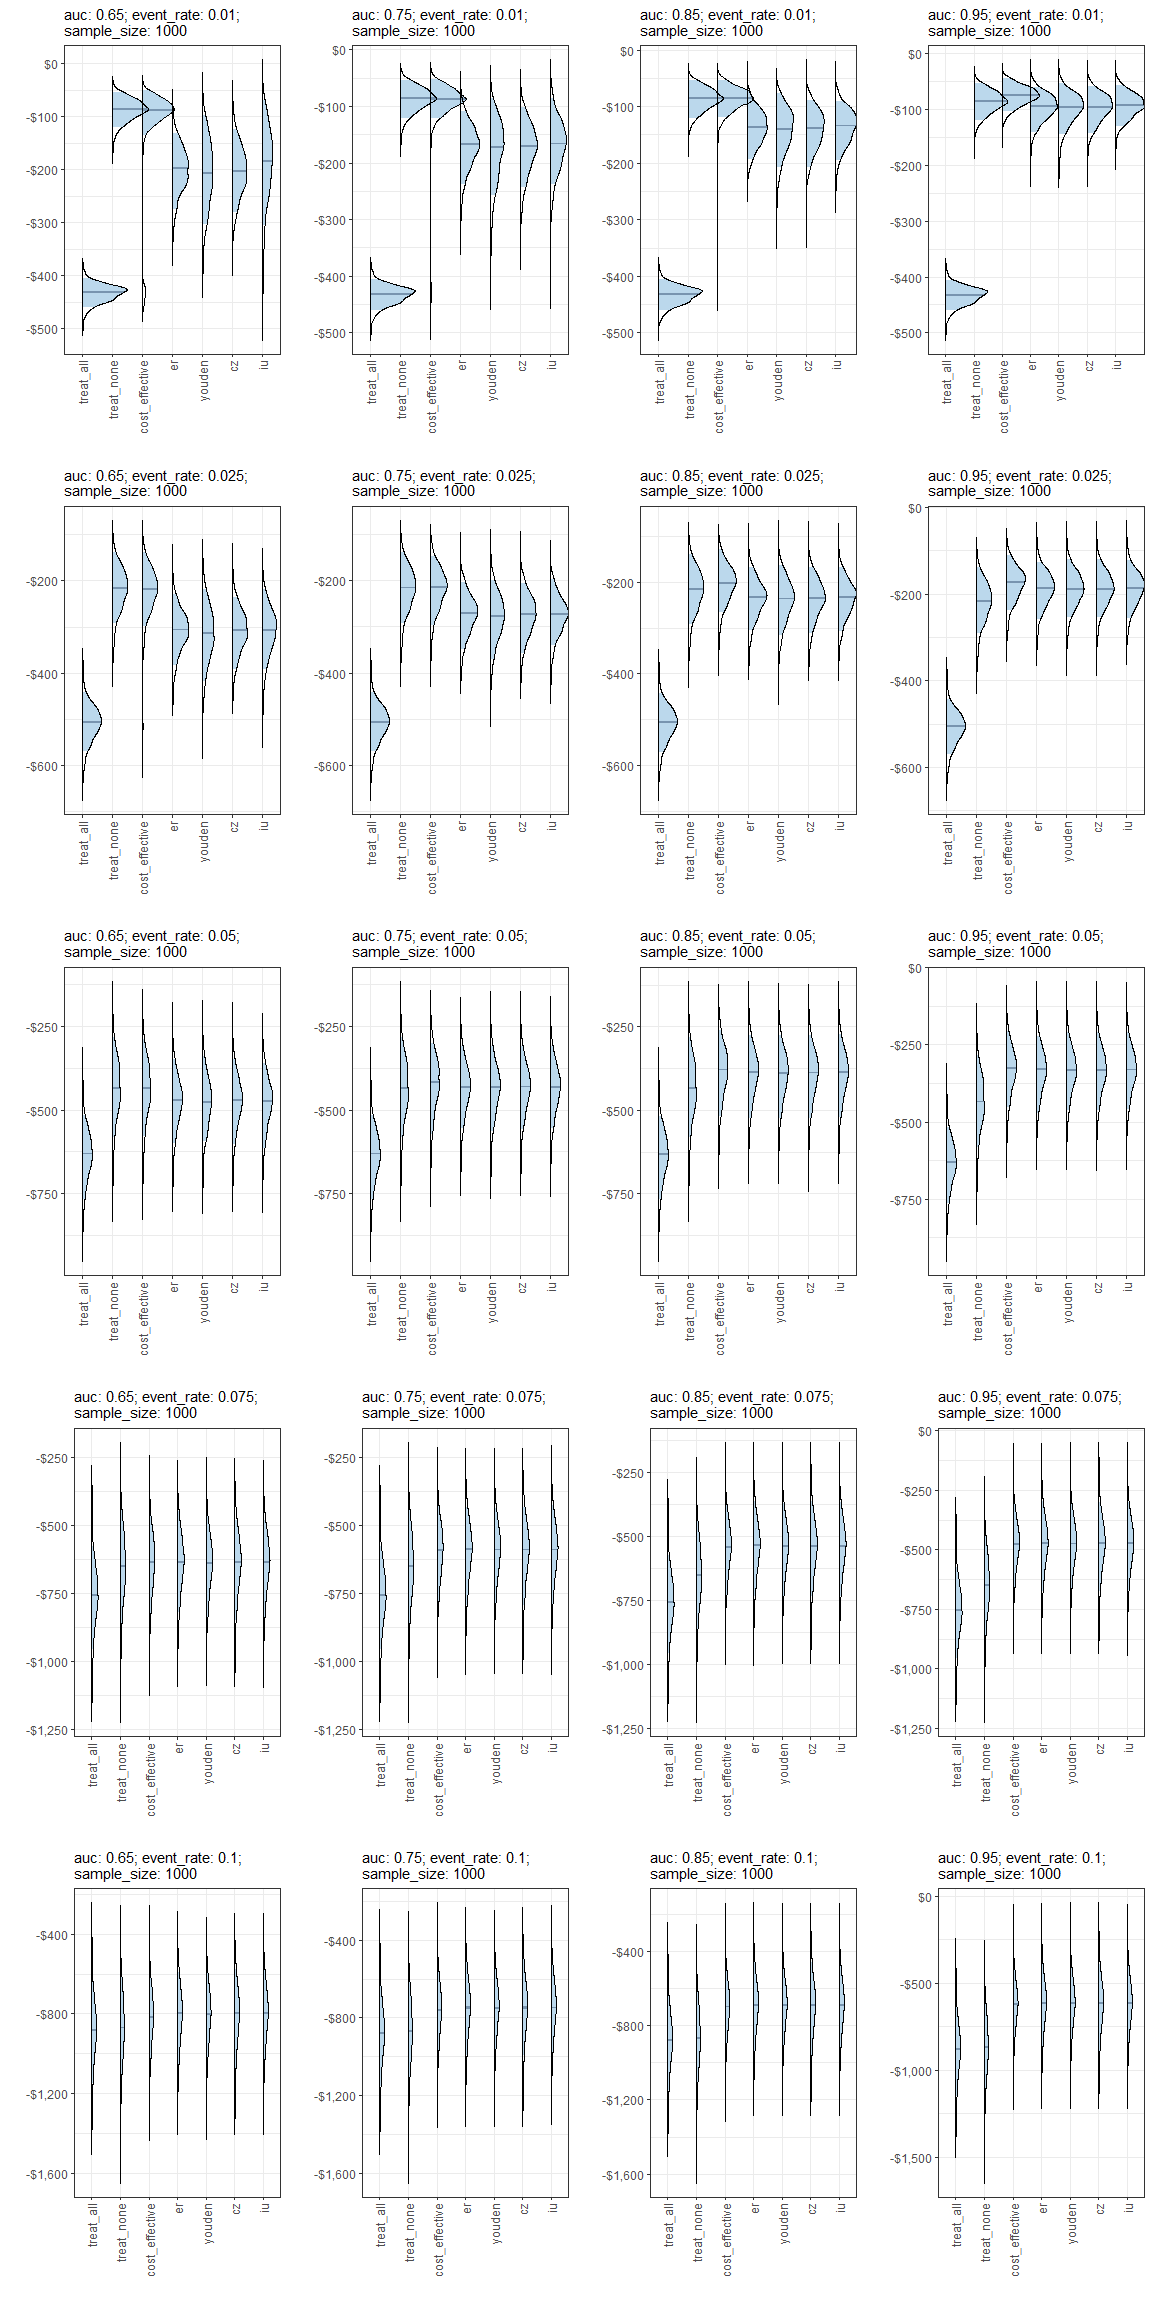
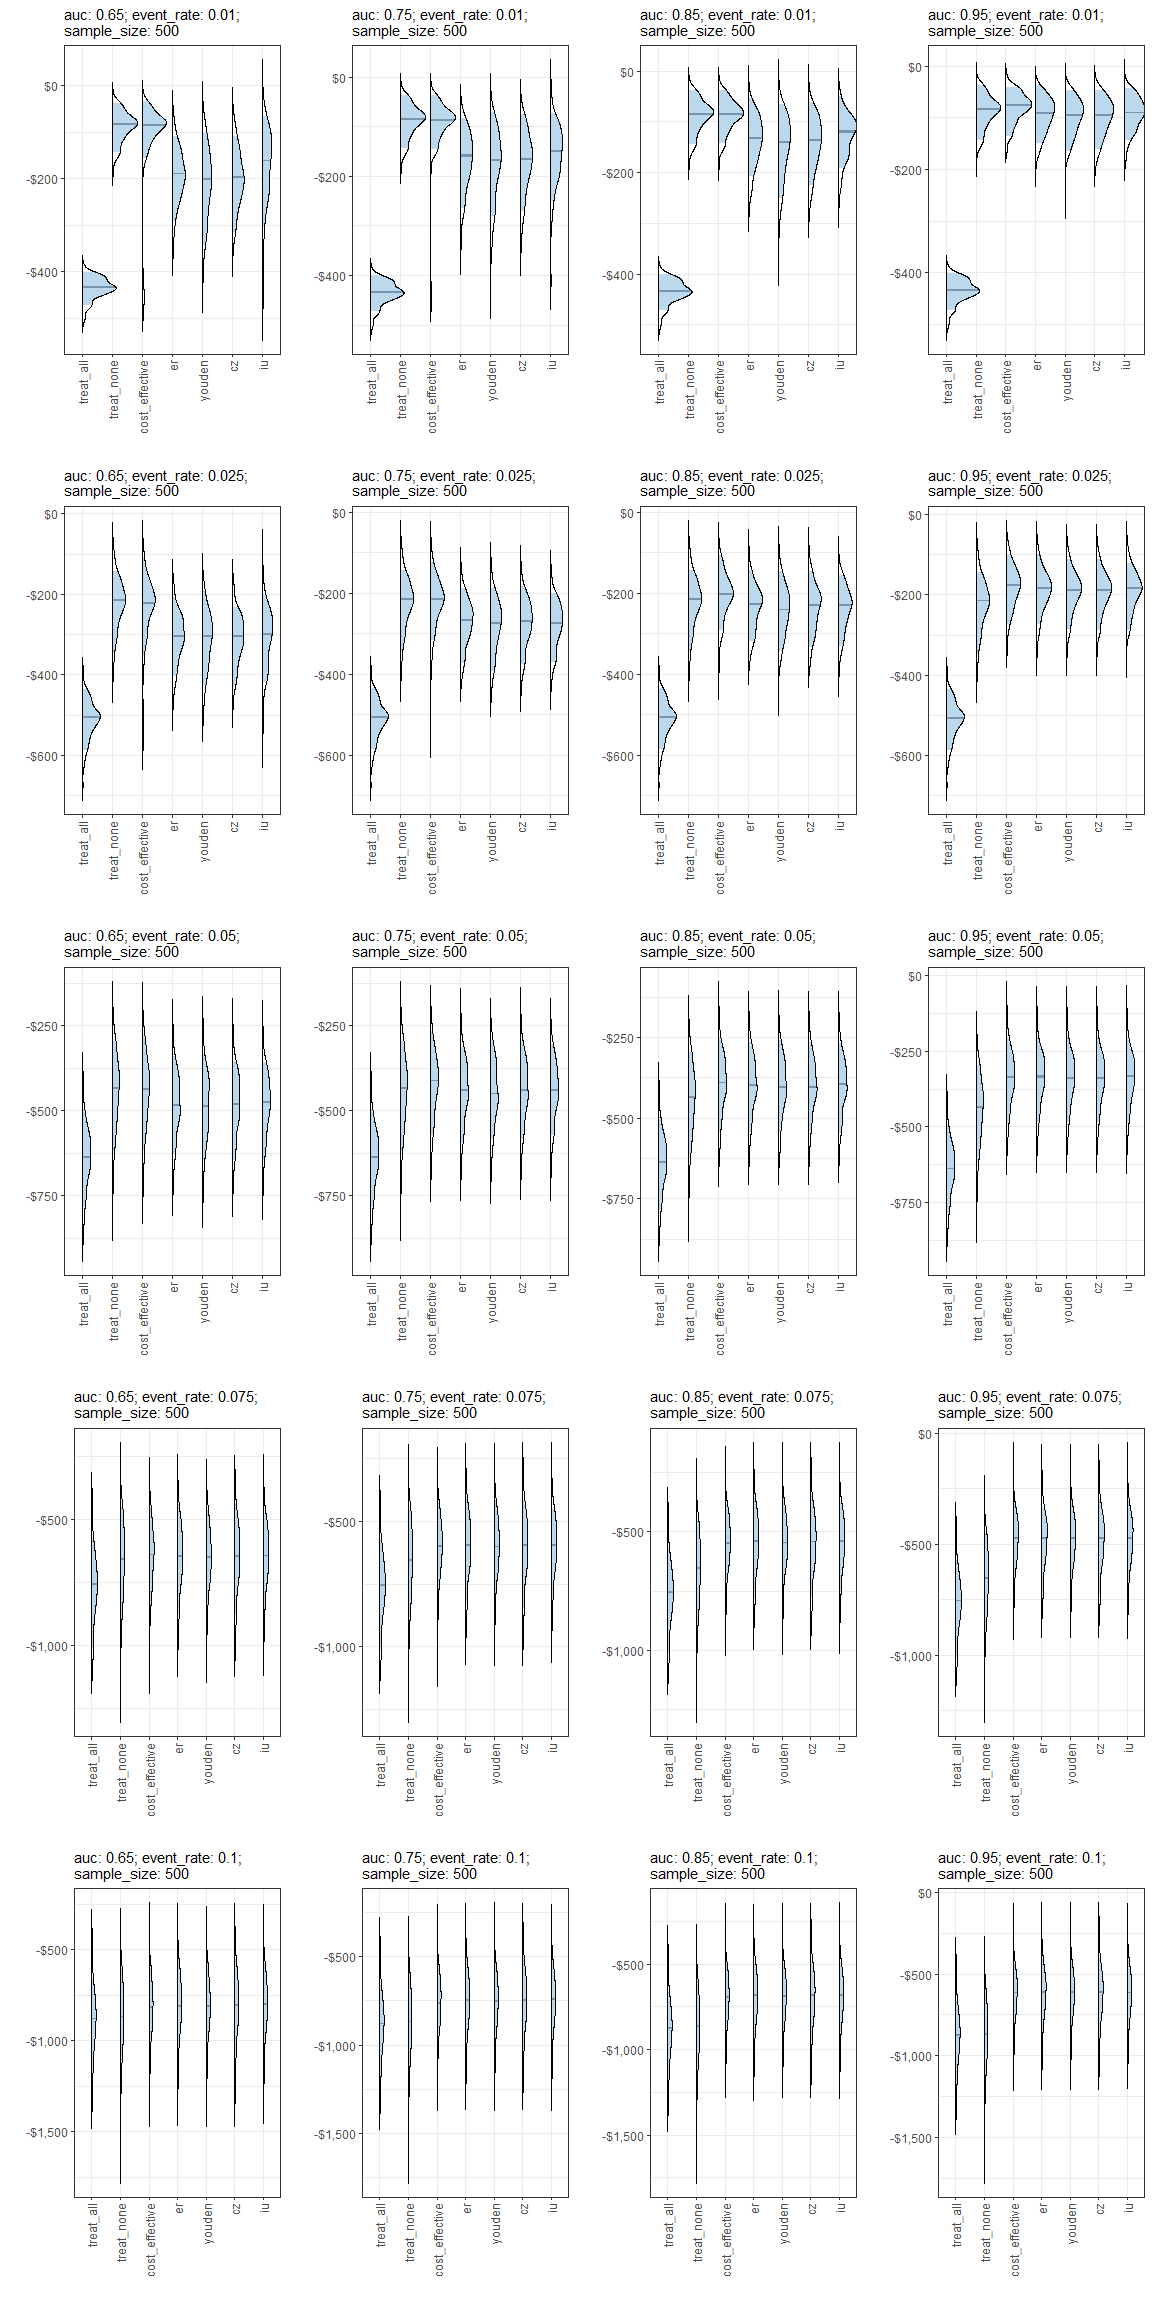
knitted with fewer sims

diff --git a/experiment_1.md b/experiment_1.md
@@ -1,6 +1,6 @@
 Experiment 1
 ================
-19 April, 2022
+20 April, 2022
 
 Question: What are the differences in NMB between models where the
 Probability threshold was based on the currently available methods
@@ -336,6 +336,11 @@ do_simulation <- function(sample_size, n_sims, n_valid, sim_auc, event_rate,
 #### I think that this is because, for models with very high discrimination, they’re able to correctly classify a larger proportion of samples, and there are fewer which are classified differently based on selection method. The difference is greater for smaller event rates because a false negative is the most costly classification, and only the cost-based method is “aware” of this. This is also why, when the event rate is very high, there is not much of a difference between methods (cost-based method is focused on correctly classifying the majority class but so are the other methods).
 
 ``` r
+simulation_config <- list(
+  training_sample_size = 500,
+  n_simulations = 200,
+  validation_sample_size = 1000
+)
 library(parallel)
 n_cluster <- detectCores()
 cl <- makeCluster(n_cluster)
@@ -347,7 +352,7 @@ g <- expand.grid(
 )
 
 clusterExport(cl, {
-  c("do_simulation", "g", "get_nmb", "get_nmb_ICU", "params")
+  c("do_simulation", "g", "get_nmb", "get_nmb_ICU", "params", "simulation_config")
 })
 
 invisible(clusterEvalQ(cl, {
@@ -365,7 +370,9 @@ ll1 <- parallel::parLapply(
   cl,
   1:nrow(g),
   function(i) do_simulation(
-    sample_size=1000, n_sims=1000, n_valid=5000,
+    sample_size=simulation_config$training_sample_size,
+    n_sims=simulation_config$n_simulations,
+    n_valid=simulation_config$validation_sample_size,
     sim_auc=g$sim_auc[i], event_rate=g$event_rate[i],
     fx_costs=get_nmb, get_what="plot", resample_values=TRUE,
     plot_type="density", scale=60
@@ -376,7 +383,9 @@ ll2 <- parallel::parLapply(
   cl,
   1:nrow(g),
   function(i) do_simulation(
-    sample_size=1000, n_sims=1000, n_valid=5000,
+    sample_size=simulation_config$training_sample_size,
+    n_sims=simulation_config$n_simulations,
+    n_valid=simulation_config$validation_sample_size,
     sim_auc=g$sim_auc[i], event_rate=g$event_rate[i],
     fx_costs=get_nmb_ICU, get_what="plot", resample_values=TRUE,
     plot_type="density", scale=400
@@ -423,7 +432,7 @@ ll3 <- parallel::parLapply(
   cl,
   1:nrow(g2),
   function(i) do_simulation(
-    sample_size=g2$train_size[i], n_sims=1000, n_valid=5000,
+    sample_size=g2$train_size[i], n_sims=500, n_valid=5000,
     sim_auc=g2$sim_auc[i], event_rate=0.025,
     fx_costs=get_nmb, get_what="plot", resample_values=TRUE,
     plot_type="density"
